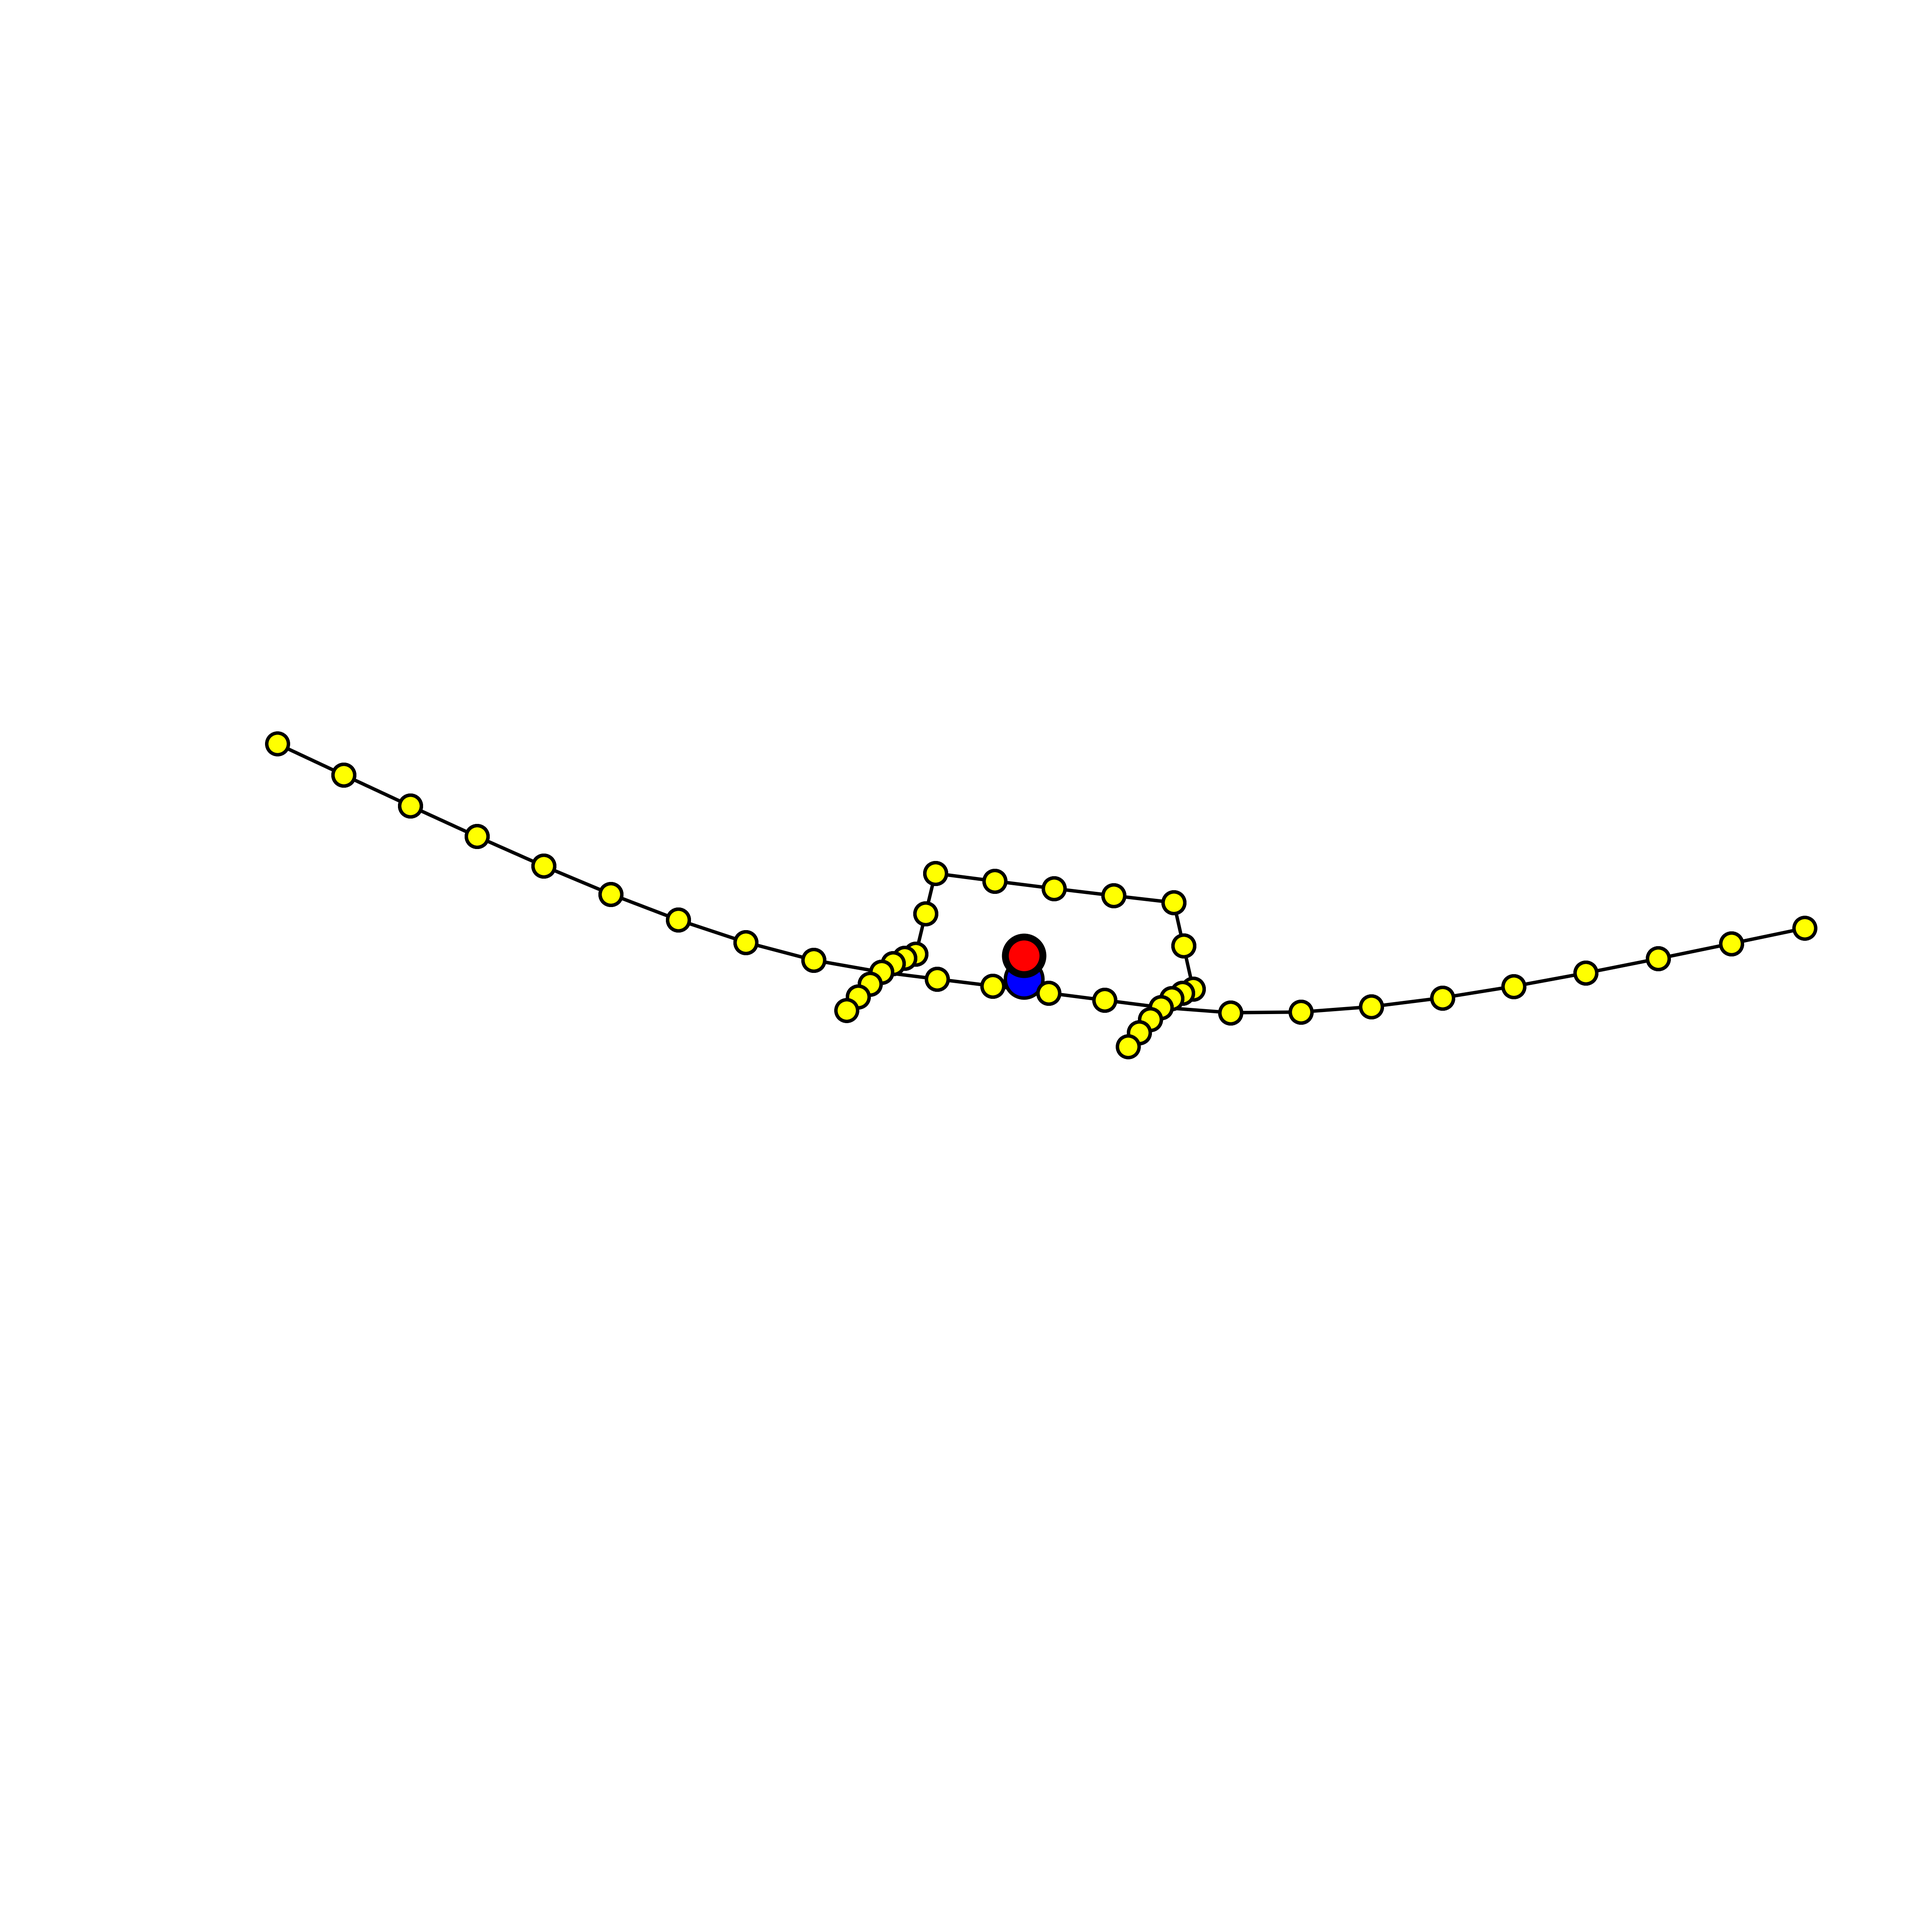
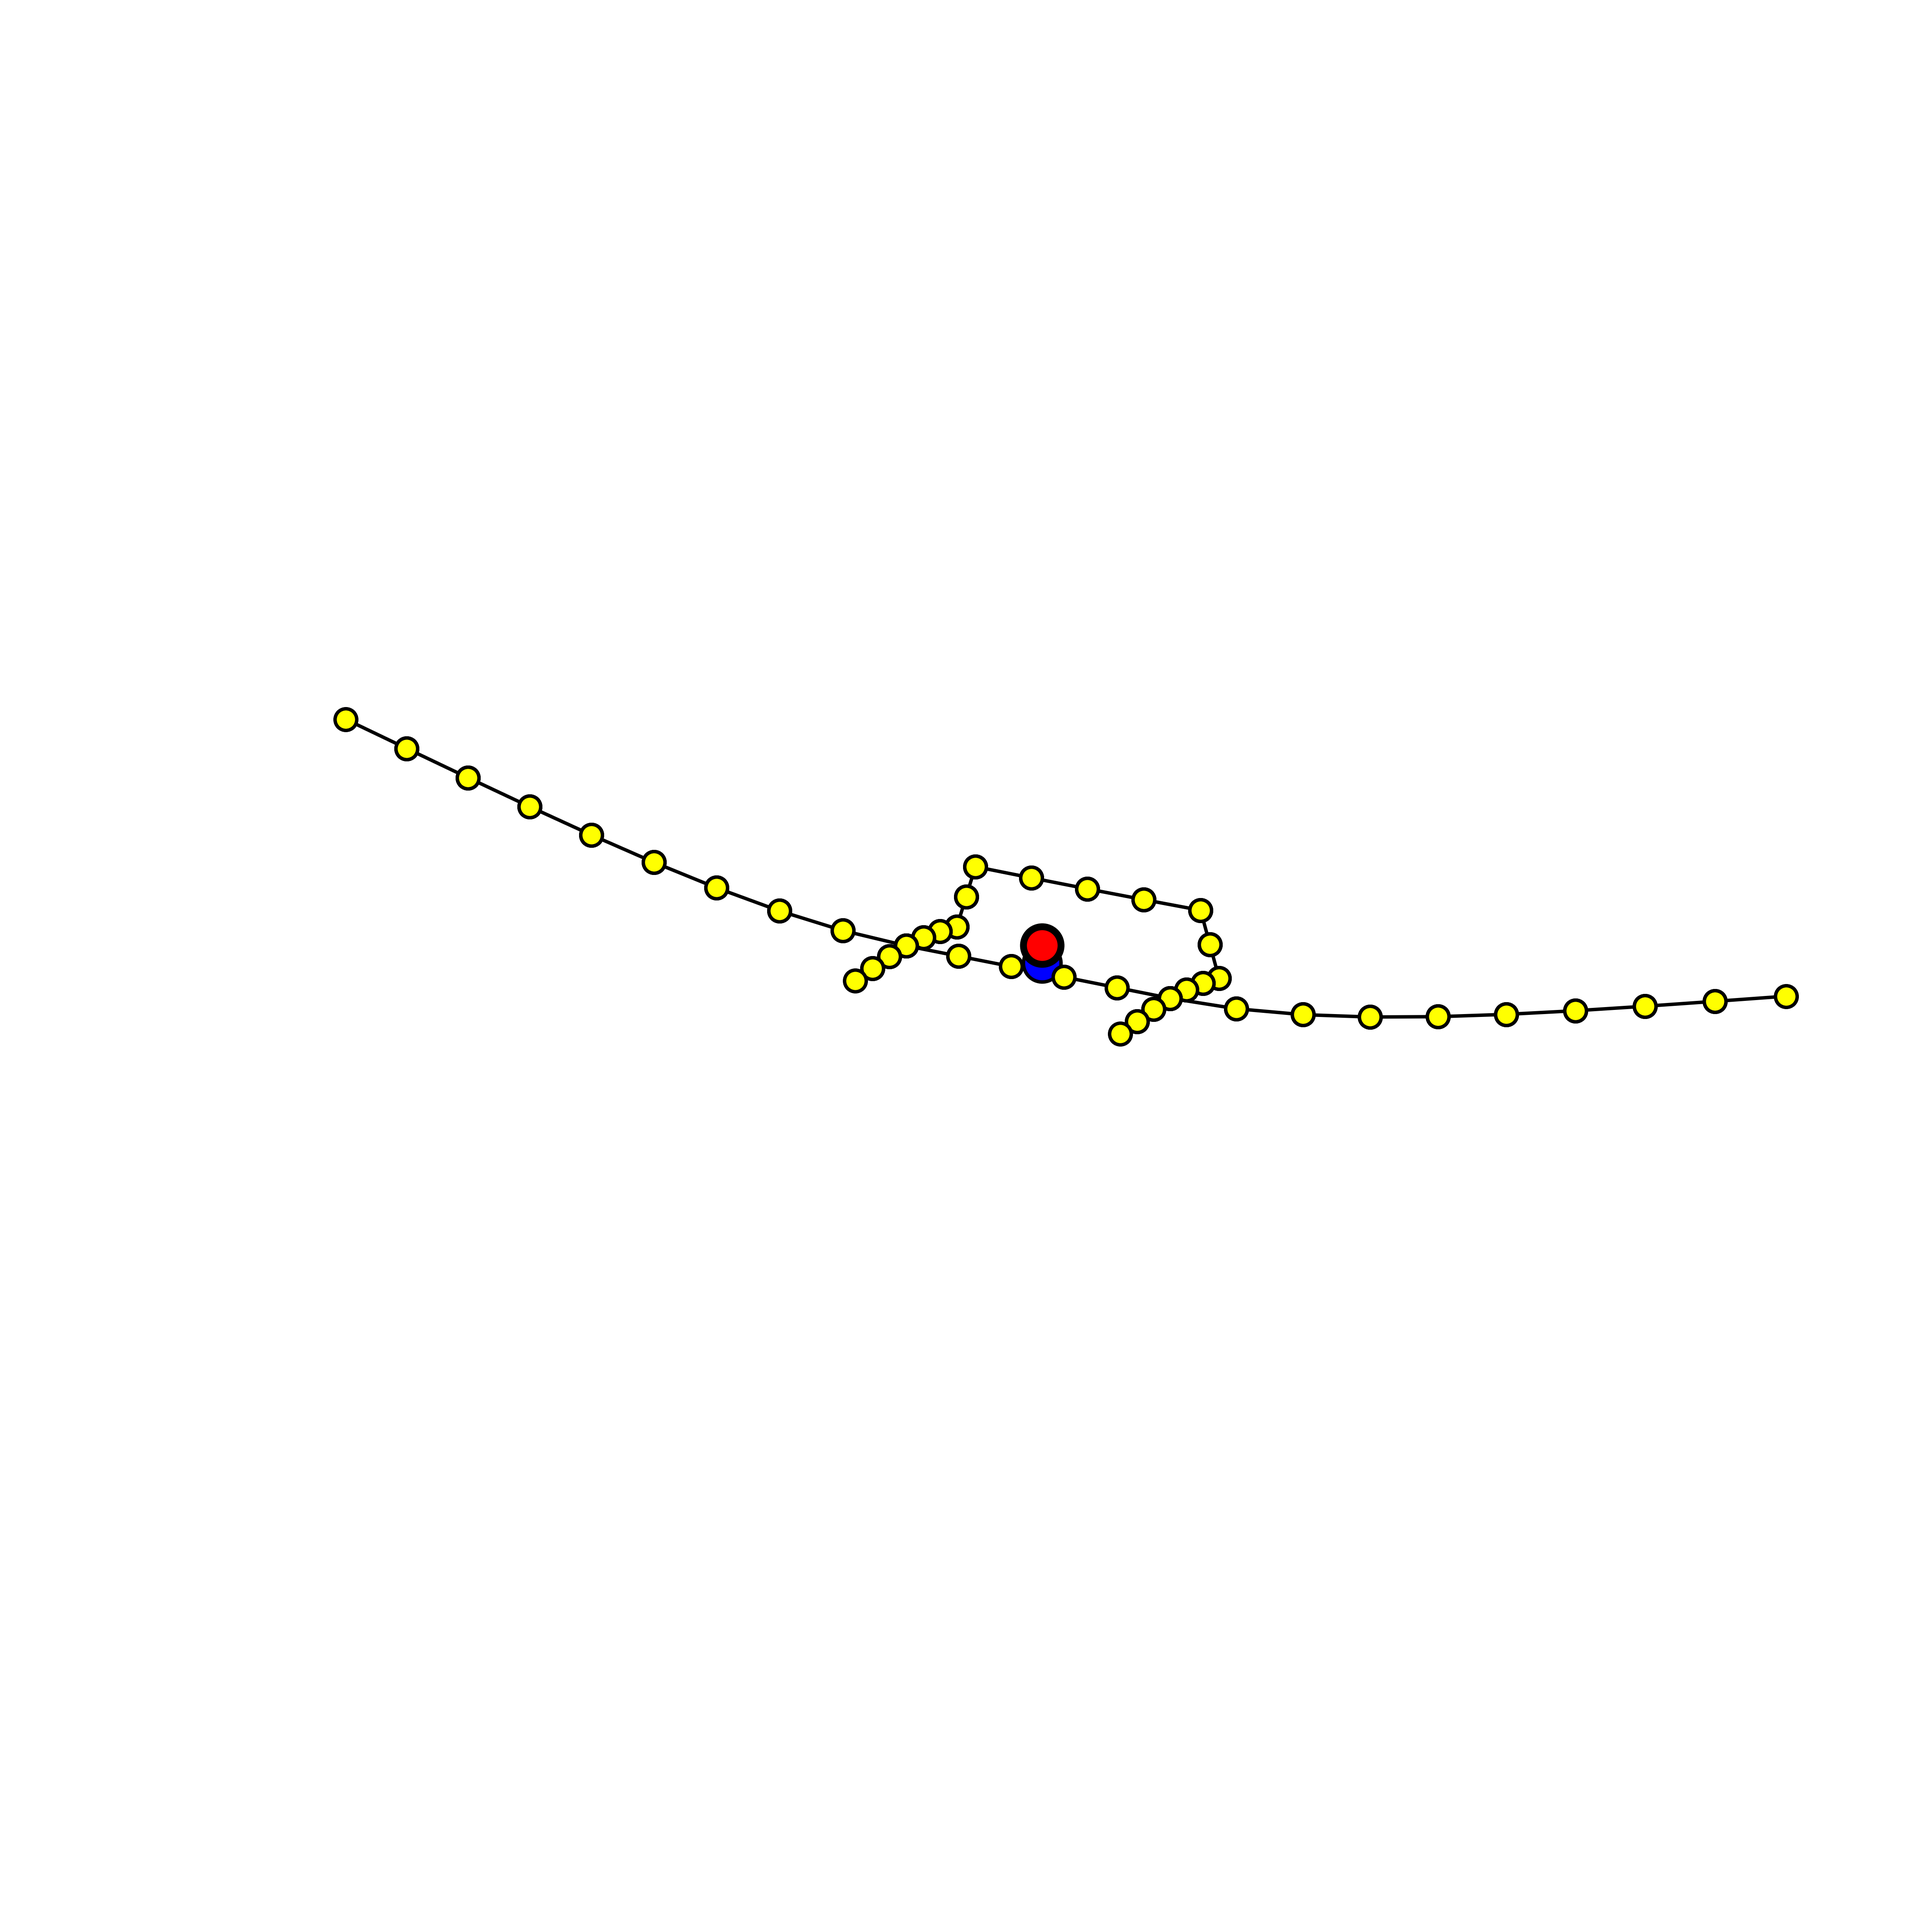
run_plane

Changed region(s): [[0.1249, 0.3748, 0.6558, 0.5621], [0.6871, 0.4684, 0.9369, 0.5309]]

diff --git a/aframe/examples/run_plane.py b/aframe/examples/run_plane.py
@@ -136,7 +136,7 @@ if __name__ == '__main__':
     fig = plt.figure()
     ax = fig.add_subplot(projection='3d')
     ax.set_axis_off()
-    ax.set_box_aspect(aspect = (3,1,1))
+    ax.set_box_aspect(aspect = (3,1,0.75))
 
 
     for beam_name in beams:
@@ -168,7 +168,7 @@ if __name__ == '__main__':
     ax.set_ylim(-38,38)
     ax.set_zlim(-1,2)
 
-    ax.view_init(20, 290)
+    ax.view_init(20, 320)
 
     plt.savefig('plane.png',dpi=1200,bbox_inches='tight',transparent=True)
     plt.show()
